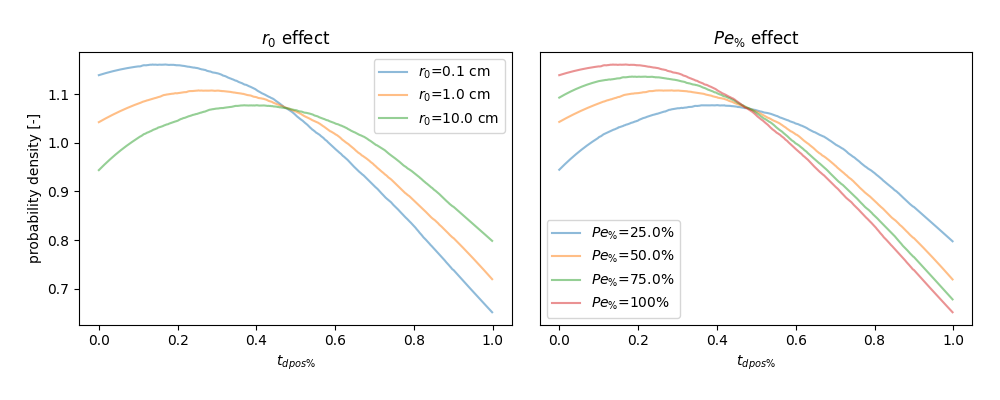
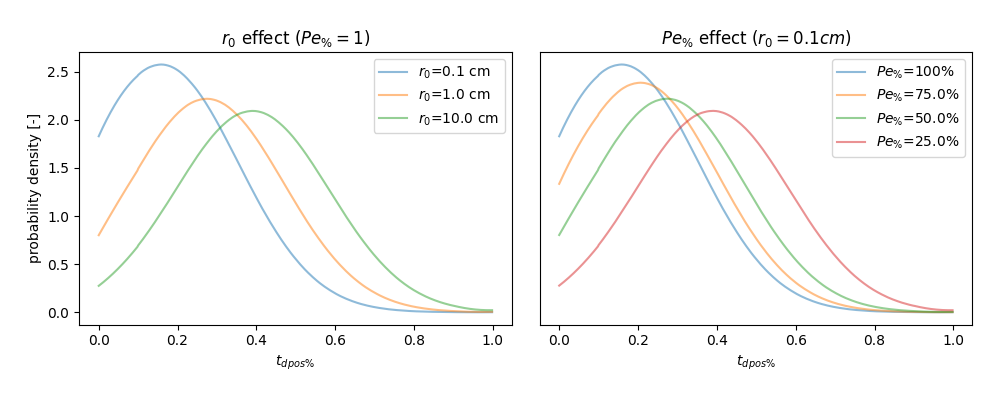
Scambio Rocce

diff --git a/calculation/HOCLOOP Calculation/WP3/Esperimento Scambio Roccie/1 - Uncertanites Evaluation.py b/calculation/HOCLOOP Calculation/WP3/Esperimento Scambio Roccie/1 - Uncertanites Evaluation.py
@@ -8,15 +8,51 @@ import numpy as np
 n_points = 10000000
 
 alpha_mu = -6
-alpha_sd = 1
+alpha_sd = 0.25
 exp_alpha = np.random.normal(alpha_mu, alpha_sd, n_points)
 alpha_rand = np.power(10, exp_alpha)
 
 k_mu = -10
-k_sd = 2
+k_sd = 0.5
 exp_k = np.random.normal(k_mu, k_sd, n_points)
 k_rand = np.power(10, exp_k)
 
+
+# %%------------   PLOT RANDOM VARIABLES                           -----------------------------------------------------------> #
+plot_linear = False
+plt.figure(figsize=(10,4))
+
+plt.subplot(121)
+plt_array = alpha_rand
+hist, logbins = np.histogram(plt_array, bins=300, density=True)
+
+if not plot_linear:
+    logbins = np.logspace(np.log10(logbins[0]),np.log10(logbins[-1]),len(logbins))
+    plt.xscale("log")
+
+plt.hist(plt_array, bins=logbins, alpha=0.5)
+ax = plt.gca()
+ax.get_yaxis().set_visible(False)
+plt.ylabel("probability density [-]")
+plt.title("$\\alpha$ uncertainty")
+
+plt.subplot(122)
+plt_array = k_rand
+hist, logbins = np.histogram(plt_array, bins=300, density=True)
+
+if not plot_linear:
+    logbins = np.logspace(np.log10(logbins[0]),np.log10(logbins[-1]),len(logbins))
+    plt.xscale("log")
+
+plt.hist(plt_array, bins=logbins, alpha=0.5)
+ax = plt.gca()
+ax.get_yaxis().set_visible(False)
+plt.ylabel("probability density [-]")
+plt.title("$k$ uncertainty")
+
+
+plt.tight_layout(pad=2)
+plt.show()
 
 # %%------------   EVALUATE Pe_MAX                        -----------------------------------------------------------> #
 r_list = np.array([0.001, 0.01, 0.1])
@@ -91,12 +127,13 @@ for i in range(len(r_list)):
 
 plt.xlabel("${t_d}_{pos\%}$")
 plt.ylabel("probability density [-]")
-plt.title("$r_0$ effect")
+plt.title("$r_0$ effect ($Pe_\% = 1$)")
 plt.legend()
 
 plt.subplot(122)
-for i in range(len(Pe_perc_list)):
+for j in range(len(Pe_perc_list)):
 
+    i = len(Pe_perc_list) - j - 1
     plt_array = t_d_perc_list_ovr[i][0]
     if plot_linear:
         hist, logbins = np.histogram(plt_array, bins=np.linspace(0, 1, 500), density=True)
@@ -110,7 +147,7 @@ for i in range(len(Pe_perc_list)):
 plt.xlabel("${t_d}_{pos\%}$")
 ax = plt.gca()
 ax.get_yaxis().set_visible(False)
-plt.title("$Pe_\%$ effect")
+plt.title("$Pe_\%$ effect ($r_0 = 0.1cm$)")
 plt.legend()
 
 plt.tight_layout(pad=2)
